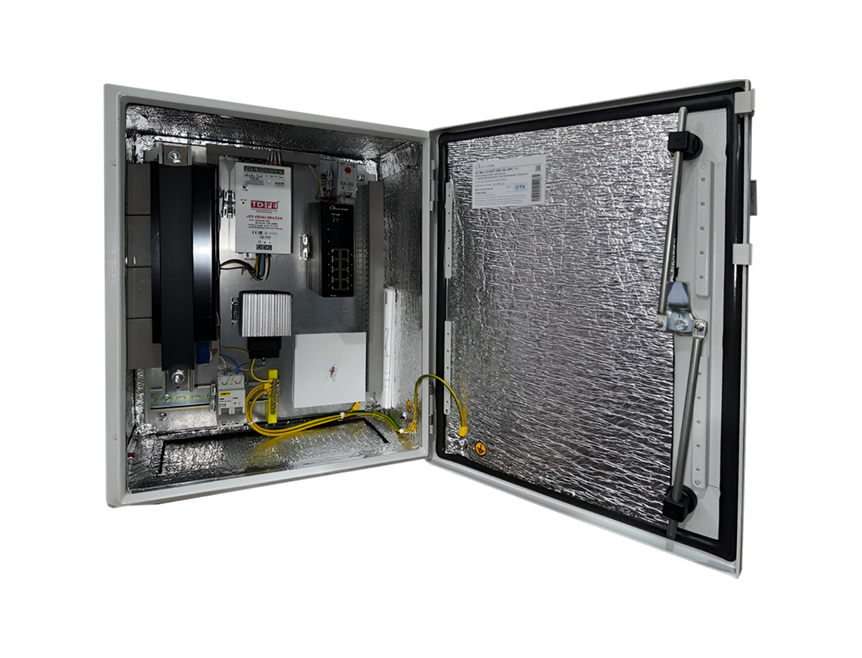
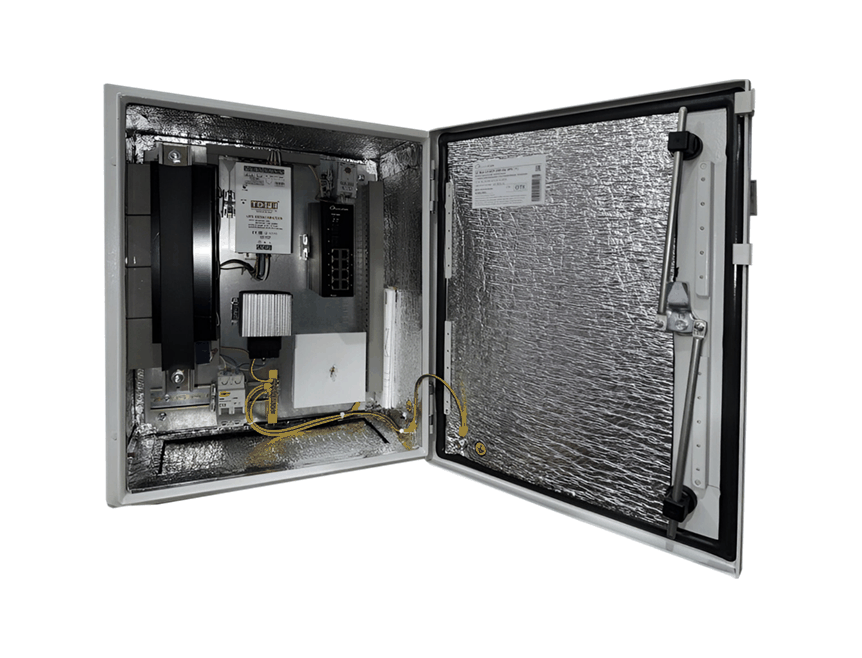
chore(images): сжатие 5 тяжёлых PNG-схем sc-box (1022→433, 487→211 КиБ); STATE.md § 0e
quantize 256 цветов (Floyd-Steinberg) + optimize, имена и формат сохранены.
STATE.md: раздел 0e — нормализация изображений 22.11 (скрипт волны 4, rlock → 4:3,
чистка 36 непривязанных, сжатие тяжёлых; 4:3 = 2255/2557, images[] == диск).

Changed region(s): [[0.2715, 0.5471, 0.4826, 0.6991], [0.5128, 0.6079, 0.5429, 0.6687], [0.5429, 0.6687, 0.5731, 0.6991]]

diff --git a/docs/STATE.md b/docs/STATE.md
@@ -6,7 +6,40 @@
 хранения в § 5. Сопровождение сайта и БД — в [PROJECT_NOTES.md](PROJECT_NOTES.md).
 
 ---
-Обновлено: **16.11.2026**.
+Обновлено: **22.11.2026**.
+
+## 0e. Нормализация изображений каталога: скрипт волны 4 восстановлен, rlock → 4:3, чистка и сжатие (22.11.2026)
+
+**Задача владельца** (по итогам аудита изображений): восстановить утерянный скрипт
+нормализации «волны 4» (11.11) и положить в репо; перевести rlock 700x700 на 4:3;
+удалить непривязанные файлы; сжать тяжёлые.
+
+**Сделано** (коммиты fde2fdc → 6f0ea91 + этот):
+- `scripts/normalize_images.py` — восстановлен по коммит-описанию da75d41/ac1e6d3:
+  продукт 73% поля, полотно 4:3 «под контейнер», фон НЕ вырезается (пад = продолжение
+  краевых цветов с затуханием 80px + растушёвка шва; плоский пад и билинейка по углам
+  давали видимый шов на виньетированном фоне — отбракованы по пиксельным профилям),
+  кап 1200x900, апскейл контента запрещён; скип: неоднородный фон (std углов >12),
+  тёмный фон (lum <170), портретные полотна (волна 4 их не трогала), микро (<96px).
+  Идемпотентность: коридор пропуска 4:3-файлов 0.60–0.90 (повторный замер включает
+  ореол растушёвки +0.10–0.13). Dry-run rlock после обработки: 0 кандидатов.
+- **rlock 208 файлов → 4:3** (обложки + квадратные галереи 700x700; лайфстайл с
+  неоднородным фоном, портреты 675x900/700x933 и тёмные кадры — осознанные скипы).
+- **Удалены 36 непривязанных файлов** (галерейные хвосты за лимитом 6 фото/продукт:
+  rlock -7/-8/-9, sc-l2/l3-48gp 07–15). После чистки: **files 2557 == images[] 2557,
+  0 непривязанных, 0 битых**.
+- **Сжатие 9 тяжёлых** (>400 КиБ): 5 PNG-схем sc-box (1022→433, 487→211 КиБ, quantize),
+  4 лайфстайл JPEG rlock 1492–1987px → кап 1200 + q82 (768→217, 519→285, 501→255,
+  467→233 КиБ). Тяжёлых осталось 2 (433 КиБ PNG-схемы). `products/` = 140.2 МиБ.
+- Итог по каталогу: **4:3 — 2255 из 2557 (88%)**; исключения 302 — схемы/рендеры на
+  неоднородном фоне, лайфстайл full-bleed, портретные галереи, мелкие вырезки
+  реестров (стандарт волны 4). Оригиналы всех фото — в git-истории (коммит до fde2fdc).
+
+**Уроки**: bbox-замер после паддинга захватывает ореол растушёвки — поэтому коридор
+пропуска до 0.90; подложка обязана продолжать градиент фона (edge-extend), а не
+заливаться плоским цветом.
+
+---
 
 ## 0d. Вкладка «Аудит доступа» (только супер-администратор) — ВЫКАЧЕНО (16.11.2026)
 
